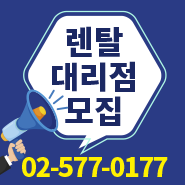
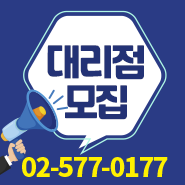
로고 및 대리점모집 이미지 변경 // css 수정

Changed region(s): [[0.2432, 0.1351, 0.7838, 0.7027]]

diff --git a/src/main/webapp/resources/css/common.css b/src/main/webapp/resources/css/common.css
@@ -41,7 +41,7 @@ b{font-weight:800;}
 .area{position:relative;max-width:1024px;margin:0 auto}
 
 /* 헤더 */
-#fixedNavBar{position:fixed;top:0;left:0;width:100%;border:0;background:#ebebeb;z-index:8888}
+#fixedNavBar{position:fixed;top:0;left:0;width:100%;border:0;background:#ffffff;z-index:8888}
 .header{width:100%;padding:23px 0 15px;}
 .header .logo{float:left;margin:0 20px 0 44px;}
 .header .logo a{display:block;}
@@ -537,7 +537,7 @@ b{font-weight:800;}
 /* 모바일 */
 @media only screen and (max-width:767px) {
 	.header .logo{float:none;text-align:center;margin:0}
-	.header .logo img{width:160px}
+	.header .logo img{width:320px}
 	.header .nav{float:none;margin-top:10px}
 	.header .nav ul li{width:20%}
 	.header .nav ul li a{font-size:13px;text-align:center;line-height:1.2;padding:3px 0 0;letter-spacing:0}
